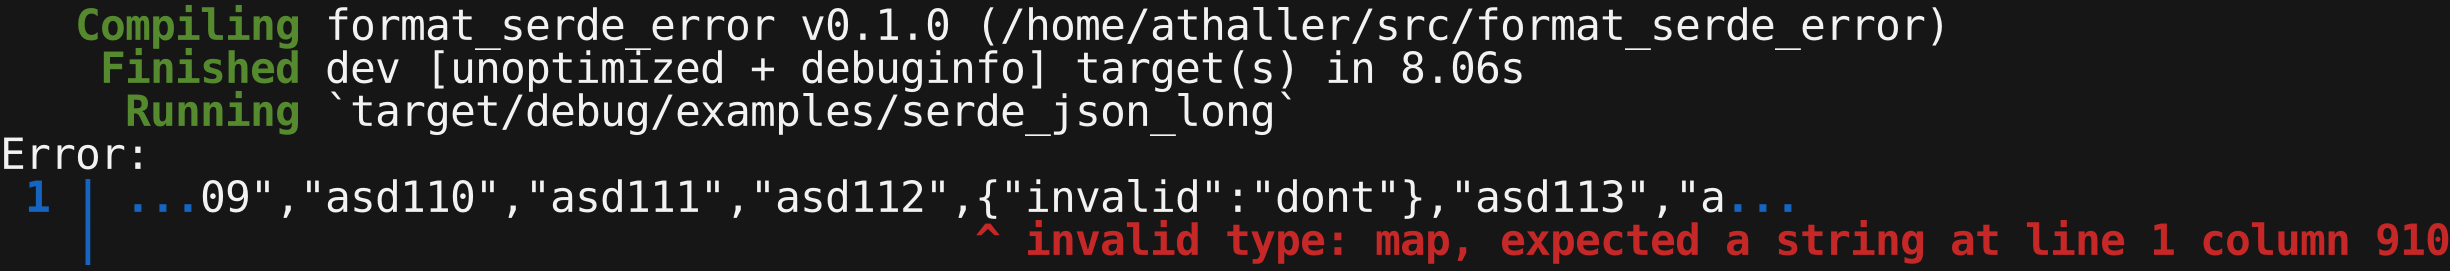
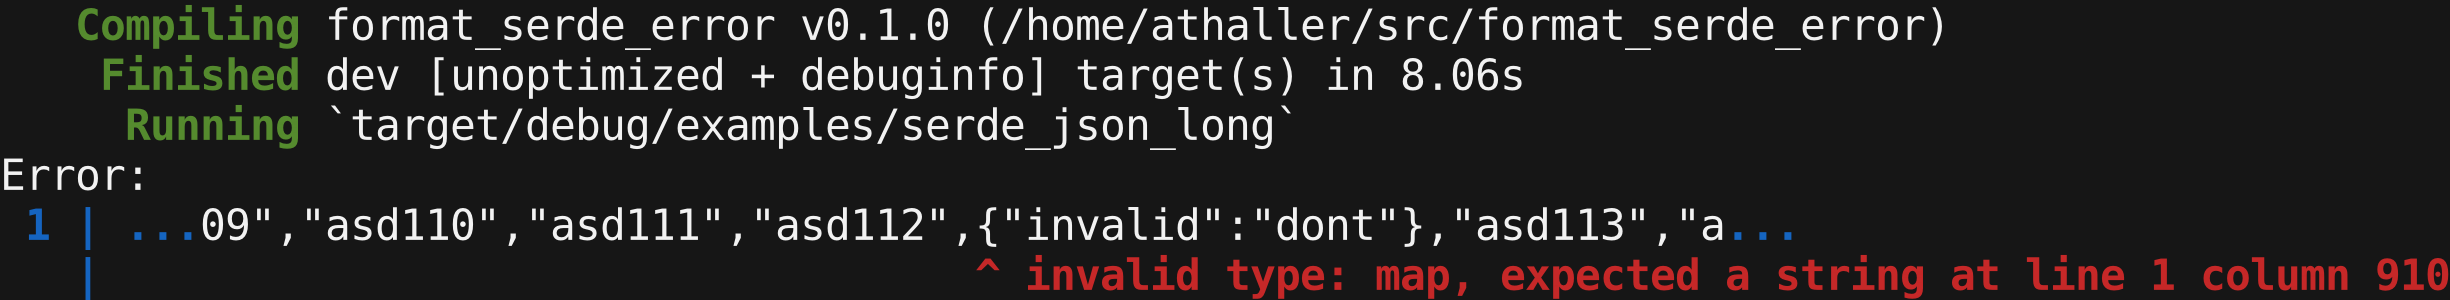
Use font height without modifying it

diff --git a/src/printer.rs b/src/printer.rs
@@ -78,7 +78,7 @@ pub(super) fn new(settings: Settings) -> Printer {
         .h_metrics()
         .advance_width;
 
-    let new_line_distance = settings.font_height as u32 - 7;
+    let new_line_distance = settings.font_height as u32;
 
     let settings_internal = SettingsInternal {
         glyph_advance_width,
@@ -247,8 +247,7 @@ impl<'a> From<Printer<'a>> for RgbImage {
             .map(|(_, y)| y)
             .max()
             .unwrap_or(&0)
-            + printer.settings_internal.new_line_distance * 2
-            - 30;
+            + printer.settings_internal.new_line_distance;
 
         let mut image = RgbImage::new(width, height);
 
